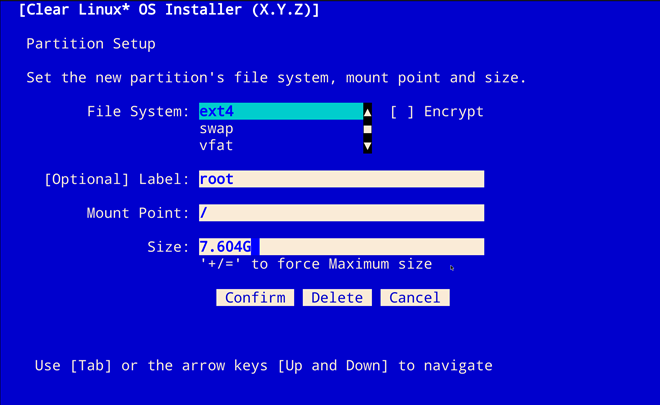
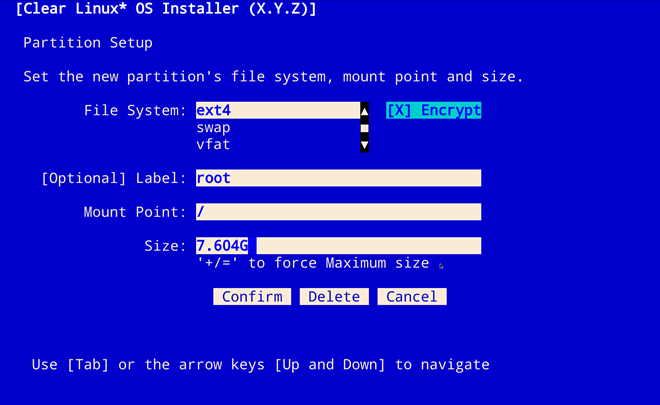
Revises Figures 9,10, 11. Reorganizes Disk Encryption section.

diff --git a/source/clear-linux/get-started/bare-metal-install-beta/bare-metal-install-beta.rst b/source/clear-linux/get-started/bare-metal-install-beta/bare-metal-install-beta.rst
@@ -279,6 +279,28 @@ Auto partition will configure the media to meet the minimum requirements.
 
 #. You may skip to the :ref:`telemetry-tui` section below.
 
+Disk encryption
+===============
+
+For greater security, disk encryption is supported by use of LUKS for all
+partitions **except boot** on |CL|. Encryption is optional. To encrypt a
+partition, see the example below to encrypt :ref:`encrypt-root`.
+
+Encryption passphrase
+---------------------
+
+|CL| supports use of a single passphrase for all encrypted partitions.
+Therefore, if you turn on encryption for one partition, the same passphrase
+is used for all partitions.
+
+.. note::
+
+   For example, suppose you encrypt the `root` partition first and the `swap`
+   partition second. Upon selecting encryption for the `swap` partition, the
+   :guilabel:`Encryption Passphrase` dialogue appears showing the default
+   Passphrase assigned to the `root`. Select :guilabel:`Confirm` and press
+   :kbd:`Enter` to use the same Passphrase.
+
 .. _add-partition:
 
 Add Partition
@@ -306,27 +328,6 @@ requirements shown in Table 1:
    * - ``root``
      - /
      - *Size depends upon use case/desired bundles.*
-
-Disk encryption
----------------
-
-Disk encryption is supported for root and swap partitions on |CL| for
-greater security. Encryption is optional. To encrypt a partition, see the example below in the :ref:`encrypt-root`.
-
-.. note::
-
-   **The `boot` partition cannot be encrypted**.
-
-Encryption Passphrase
----------------------
-
-|CL| supports use of a single passphrase for all encrypted partitions.
-Therefore, if you turn on encryption for one partition, the same passphrase
-must be used for all partitions. For example, suppose you encrypt the `root`
-partition first and the `swap` partition second. Upon selecting encryption
-for the `swap` partition, the :guilabel:`Encryption Passphrase` dialogue
-appears showing the current default Passphrase. Select :guilabel:`Confirm`
-and press :kbd:`Enter` to use the same Passphrase.
 
 
 #. In the Configure Media menu, select :guilabel:`Add Partition`.
